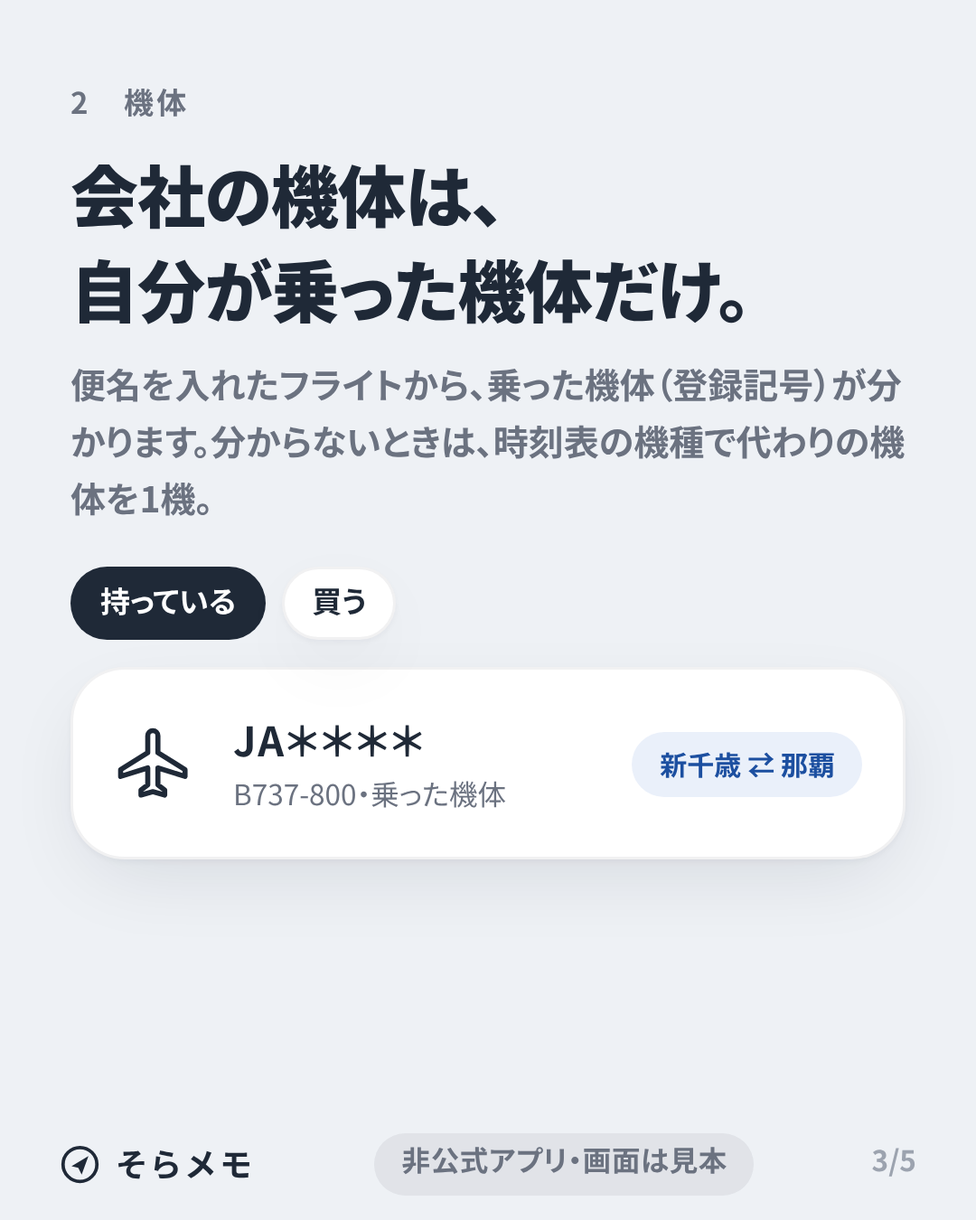
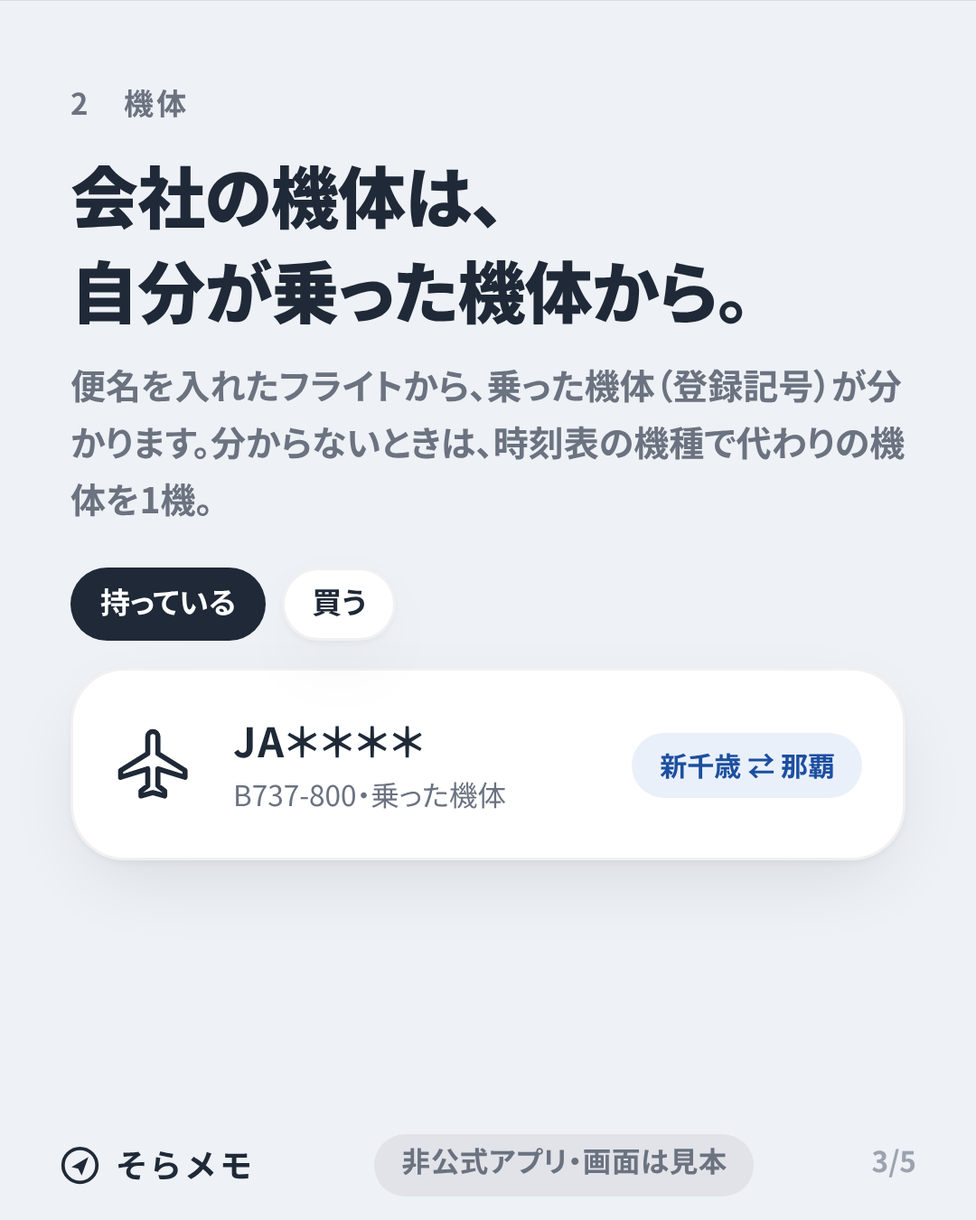
広告：投稿の予定を金・土・日に組み直し、リールの台本（週1本）と本番の撮り方の手順を追加。投稿3の機体の書き方を直す
Claude-Session: https://claude.ai/code/session_01WGRBVHnS9XWc4Qb8Sh2dBL

diff --git a/docs/marketing/images/post3-airline.html b/docs/marketing/images/post3-airline.html
@@ -97,7 +97,7 @@ body{background:#D9DEE6;font-family:var(--gothic);color:var(--ink);-webkit-text-
 <section class="s" id="e3">
   <div class="pad">
     <p class="eyebrow">2　機体</p>
-    <h2 class="ttl">会社の機体は、<br>自分が乗った機体だけ。<small>便名を入れたフライトから、乗った機体（登録記号）が分かります。分からないときは、時刻表の機種で代わりの機体を1機。</small></h2>
+    <h2 class="ttl">会社の機体は、<br>自分が乗った機体から。<small>便名を入れたフライトから、乗った機体（登録記号）が分かります。分からないときは、時刻表の機種で代わりの機体を1機。</small></h2>
     <div class="pillrow" style="margin-top:14px"><span class="pill on">持っている</span><span class="pill">買う</span></div>
     <div class="card" style="margin-top:10px;padding:14px 16px;display:flex;align-items:center;gap:14px">
       <svg viewBox="0 0 24 24" style="width:30px;height:30px;flex:none" aria-hidden="true"><path d="M21 15.5v-2l-8-5V3.5a1.5 1.5 0 0 0-3 0V8.5l-8 5v2l8-2.5V18l-2 1.5V21l3.5-1 3.5 1v-1.5L13 18v-5z" fill="none" stroke="var(--ink-strong)" stroke-width="1.5" stroke-linejoin="round"/></svg>

diff --git a/docs/marketing/plan-4weeks.md b/docs/marketing/plan-4weeks.md
@@ -1,66 +1,70 @@
-# 4週分の投稿予定（2026年11月9日〜12月6日）
+# 4週分の投稿予定（金・土・日に組み直し　2026年11月13日〜12月6日）
 
-- 週3回（フィード2回＋ストーリーズ1回）。リールは月2本までなので、11月と12月に1本ずつ、その週のフィード1回をリールにする
-- 時間は目安。平日は夜（20〜21時）、土日祝は朝（10時）。空港や旅の話は、移動の前後に見られやすいと考えた。2週たったら、インサイトの「フォロワーがアクティブな時間」を見て合わせ直す
-- どの投稿も「非公式アプリ」と入れる（[rules.md](rules.md)）。画像の画面は今のアプリを再現した見本
+11/12 の本人の答えで組み直した版。前の版（平日の夜にも出す形）は git の履歴に残っている。
 
-## 1週目　11月9日（月）〜15日（日）　知ってもらう
+- 出すのは基本 **金・土・日**（11/12 本人）。1週に **フィード（またはリール）2・ストーリーズ1** を基本にして、**リールを週1本** 入れる（リールの上限はなし。11/12 本人「ジャンジャン出そう」）
+- 時間の目安：金は夜 20:00、土は朝 10:00、日は朝 10:00（リール）と夜 21:00（ストーリーズ）。2週たったら、インサイトの「フォロワーがアクティブな時間」を見て合わせ直す
+- どの投稿も「非公式アプリ」と入れる（[rules.md](rules.md)）
+- 画像は本番（soramemo.jp）の画面で撮る（11/12 本人）。撮り方は [shoot-guide.md](shoot-guide.md)。撮り直しが間に合わない投稿は、今の画像（main をデモで動かして撮った本物の画面）で出してよいかを本人が決める
+- リールの台本と撮り方は [reels.md](reels.md)
+- posts-*.md に書いてある日付は前の予定のもの。**日付はこの表が正**
 
-| 日 | 時間 | 種類 | 中身 | ねらい |
+11/10（火）の投稿1と 11/12（木）の投稿2（質問スタンプ）は前の予定どおり出した前提。投稿2がまだなら、11/13（金）21:00 に出して、修行のカルーセルを 11/15（日）10:00 にずらす。
+
+## 1週目　11月13日（金）〜15日（日）　修行の人に届ける
+
+| 日 | 時間 | 種類 | 中身 | 文面 |
 |---|---|---|---|---|
-| 11/10（火） | 20:00 | フィード（カルーセル5枚） | **投稿1**：そらメモの紹介。空港でチェックイン → 印 → 図鑑・フライトの地図 | 何のアプリかを1回で分かってもらう。保存とプロフィールへのアクセス |
-| 11/12（木） | 21:00 | ストーリーズ | **投稿2**：「最初に印を押したい空港は？」質問スタンプ＋リンクのスタンプ | 答えてもらって関わりを作る。リンクを押してもらう |
-| 11/14（土） | 10:00 | フィード（カルーセル5枚） | **投稿3**：エアライン経営。乗った区間だけが路線、乗った機体だけが会社の機体、実際の便数・欠航で収益が上下 | ほかの旅アプリにない遊び方を見せる。シェアと保存 |
+| 11/13（金） | 20:00 | フィード（カルーセル6枚） | **修行のカルーセル**：年末まで、あと何回か | [posts-shugyo.md](posts-shugyo.md) 投稿A |
+| 11/14（土） | 10:00 | フィード（カルーセル5枚） | **投稿3**：エアライン経営（11/5 本人「そのまま出す」） | [posts-first3.md](posts-first3.md) |
+| 11/15（日） | 10:00 | リール（20秒） | **リールA 修行の道のり**（撮れたら。撮れなければ 11/20 の金に回し、チェックインのリールを 11/27 へ） | [reels.md](reels.md) |
+| 11/15（日） | 21:00 | ストーリーズ | **修行のアンケート**「今年の修行、あと何回？」＋リンク | [posts-shugyo.md](posts-shugyo.md) 投稿B |
 
-文面と画像：[posts-first3.md](posts-first3.md)
+- 修行は年末に向けて「あと何回」を気にする時期なので、いちばん早い金曜に出す
+- リンクのスタンプは 11/15 のストーリーズだけ。リールとは11時間あく
 
-## 2週目　11月16日（月）〜22日（日）　使っている様子を見せる
+## 2週目　11月20日（金）〜22日（日）　使っている様子を見せる
 
-| 日 | 時間 | 種類 | 中身 | ねらい |
+| 日 | 時間 | 種類 | 中身 | 文面 |
 |---|---|---|---|---|
-| 11/17（火） | 20:00 | **リール①**（15〜20秒） | 本人の端末の画面収録：空港の円に入る → チェックインを引いて切る → 印が出る → 図鑑のマスが埋まる | 動きで「押す気持ちよさ」を伝える。リーチを広げる |
-| 11/19（木） | 21:00 | ストーリーズ | 先週の質問スタンプの答えから「多かった空港」を紹介（名前は出さない）＋リンクのスタンプ | 答えた人に返す。迷っている人の背中を押す |
-| 11/21（土） | 10:00 | フィード（カルーセル4〜5枚） | フライトの残し方：出発と到着で押す／乗った便を記録する（航空会社と便名）／搭乗券を読み取る／画像で共有 | 旅の前に保存してもらう |
+| 11/20（金） | 20:00 | リール（15〜20秒） | **リールB チェックイン**：半券を切る → 印 → 図鑑のマス | [reels.md](reels.md)（文面は [posts-week2.md](posts-week2.md) 投稿4） |
+| 11/21（土） | 10:00 | フィード（カルーセル5枚） | **投稿6** フライトの残し方 | [posts-week2.md](posts-week2.md) |
+| 11/22（日） | 21:00 | ストーリーズ | **投稿5** 11/12 の答えから多かった空港3つ＋リンク | [posts-week2.md](posts-week2.md) |
 
-- リールは本人の端末で画面を収録する。地図・印・図鑑だけを映し、外の景色を入れるときはロゴや人の顔が映らないようにする
-- 文面・台本・画像：[posts-week2.md](posts-week2.md)（投稿4＝リール①、投稿5＝11/19 のストーリーズ、投稿6＝11/21 のフライト）
+## 3週目　11月27日（金）〜29日（日）　経営と図鑑
 
-## 3週目　11月23日（月・祝）〜29日（日）　集める楽しさ
-
-| 日 | 時間 | 種類 | 中身 | ねらい |
+| 日 | 時間 | 種類 | 中身 | 文面 |
 |---|---|---|---|---|
-| 11/23（月・祝） | 10:00 | フィード（カルーセル4〜5枚） | 図鑑：地方ごとのマス（北海道12・九州19・沖縄10 など）、離島の空港は金色の印、同じ空港に通うと印が昇格する | 「全部埋めたい」と思ってもらう。保存 |
-| 11/25（水） | 21:00 | ストーリーズ | 下の「分かれ道」を見て決める | 登録の不安をなくす |
-| 11/28（土） | 10:00 | フィード（1〜3枚） | 本人の1か月の記録：アプリの「画像で共有」で作った画像をそのまま使う | 本当に使っている記録で信頼してもらう |
+| 11/27（金） | 20:00 | リール（20〜25秒） | **リールC エアライン経営**：路線 → 機体 → 収益を受け取る | [reels.md](reels.md) |
+| 11/28（土） | 10:00 | フィード（カルーセル5枚） | **図鑑**：右端のツメ（9地方）・地方の扉・16／86 の数・「飛行場・滑空場・ヘリポートの図鑑」の入口 | これから書く（本番の画面で撮る） |
+| 11/29（日） | 21:00 | ストーリーズ | **登録の分かれ道**（下） | これから書く |
 
-**11/25 の分かれ道**
-- 新規登録の画面が本番に入っていたら：登録の流れ（メール → コード → 表示名 → 同意 → 位置情報）を1枚ずつ見せるストーリーズ。画像は本番の画面で作り直す
-- まだ入っていなければ：「アーリーアクセスで直したこと」を短く（実際に本番に入った直しだけ）。登録の流れには触れない
+**11/29 の分かれ道**
+- 新規登録の新しい画面が本番に入っていたら：登録の流れを1枚ずつ見せる。画像は本番の画面で
+- まだなら：「アーリーアクセスで直したこと」を短く（本番に入った直しだけ。近くの空港に飛行場・滑空場・ヘリポートも並ぶようになった、など）
 
-## 4週目　11月30日（月）〜12月6日（日）　経営で深く遊ぶ人へ
+## 4週目　12月4日（金）〜6日（日）　年末年始の移動の前に
 
-| 日 | 時間 | 種類 | 中身 | ねらい |
+| 日 | 時間 | 種類 | 中身 | 文面 |
 |---|---|---|---|---|
-| 12/1（火） | 20:00 | **リール②**（20〜30秒） | エアライン経営の画面収録：自社路線の一覧 → 機体を買う（乗った機体の中から） → 路線に入れる → 収益を受け取る | 経営を知らない人に届ける。シェア |
-| 12/3（木） | 21:00 | ストーリーズ | 質問スタンプ「そらメモで次に行きたい空港は？」＋リンクのスタンプ | 登録した人に、次の旅で使ってもらう |
-| 12/5（土） | 10:00 | フィード（カルーセル3〜4枚） | 年末年始の帰省・旅行の前に：出発と到着で押すだけ、乗り継ぎは24時間以内、オフラインでも後から送れる | 冬の移動の前に登録してもらう |
+| 12/4（金） | 20:00 | リール（15〜20秒） | **リールD 図鑑のマスが埋まる**（地方の扉 → 飛行場・滑空場・ヘリポートの図鑑） | [reels.md](reels.md) |
+| 12/5（土） | 10:00 | フィード（カルーセル3〜4枚） | 年末年始の帰省・旅行の前に：出発と到着で押すだけ、乗り継ぎは24時間以内、電波がなくても後から送れる | これから書く |
+| 12/6（日） | 21:00 | ストーリーズ | 質問スタンプ「そらメモで次に行きたい空港は？」＋リンク | これから書く |
 
-- 12/5 の「オフライン」は、今のアプリの仕組み（電波がないときは端末に保留し、つながったら送る。24時間以内のもの）どおりに書く
-- 「予想」「推定」の機能（到着予想・撮る人の「見えるか」など）を出すときは、「目安で、当たることを保証しません」と画像と本文の両方に入れる。この4週では主役にしない
+- 12/5 の「電波がないとき」は、今のアプリの仕組み（端末に保留して、つながったら送る。24時間以内のもの）どおりに書く
 
-## 決まったこと（11/5 本人）
-- リール①②に本人の端末の画面収録を使ってよい。収録は旅先の空港で、自宅に近い空港が映らないようにする
+## 5週目より後（12/11〜）に回したもの
+- 本人の1か月の記録（出すかは本人の判断待ち）
+- 修行の「12月31日まで あと3週」のストーリーズ（修行のアンケートの答えを見て）
+- 予備のリール：[reels.md](reels.md) のリールE（近くの空港）
 
-## 決めていないこと（本人に）
-- 11/28 の「自分の記録」を出してよいか
+## 1週の数
+| 週 | フィード | リール | ストーリーズ | リンクのスタンプ |
+|---|---|---|---|---|
+| 1 | 2 | 1（撮れたら） | 1 | 日曜のストーリーズだけ |
+| 2 | 1 | 1 | 1 | 日曜のストーリーズだけ |
+| 3 | 1 | 1 | 1 | 日曜のストーリーズだけ |
+| 4 | 1 | 1 | 1 | 日曜のストーリーズだけ |
 
-## 修行の広報を入れる案（11/12 追加・本人の判断待ち）
-
-文面と画像：[posts-shugyo.md](posts-shugyo.md)。年末に向けて「あと何回」を気にする時期なので、11月のうちに出したい。
-
-**案1（おすすめ）**
-- 11/28（土）10:00 のフィードを **修行のカルーセル6枚** にする。「本人の1か月の記録」（判断待ち）は5週目（12/7〜）以降へ
-- 12/3（木）21:00 のストーリーズを **修行のアンケート＋リンク** にする。「次に行きたい空港は？」は5週目へ
-- 週3回（フィード2・ストーリーズ1）とリール月2本はそのまま
-
-**案2**：予定は変えず、5週目（12/7〜13）に修行のカルーセルとストーリーズを出す（年末の追い込みには少し遅い）
+- リールは「フィードにも表示」をオンにするので、2〜4週目もフィードに並ぶのは週2本
+- リンクのスタンプは1日1回、フィードとは2時間以上あける（[rules.md](rules.md)）。どの週も日曜の夜だけ

diff --git a/docs/marketing/reels.md b/docs/marketing/reels.md
@@ -1,0 +1,135 @@
+# リールの台本（週1本）
+
+11/12 本人「リールもジャンジャン出そう」で、リールの上限はなくなった。まずは週1本（金曜 20:00 が基本）。日付は [plan-4weeks.md](plan-4weeks.md) が正。
+
+## どのリールにも共通の撮り方
+
+- **本番（soramemo.jp）を「デモで試す」で開いて画面収録する**（入り方は [shoot-guide.md](shoot-guide.md)）。デモは「いる空港（デモ）」を選べるので、家にいても旅先の空港として撮れて、自宅の近くの空港が映らない。本人の記録も映らない
+  - 前の決まり（11/5）は「本人の画面収録は旅先の空港で」。デモで撮るのはその代わりの案なので、本人に決めてもらう（報告の「決めてほしいこと」）。旅先で撮れたときは本物の記録で撮ってもよい
+- 上の「デモモード中」の帯は、Instagram の編集で上を少し切るか、帯の上に文字を置いて隠す。キャプションには「画面はデモ」と書く
+- 収録の前に：おやすみモード／通知を切る／画面の明るさを最大／縦向き固定
+- 指はゆっくり。1つの画面で2〜3秒止める（字を読む間）
+- 文字は Instagram の編集で足す。音は Instagram の中の音源から選ぶ（外の音源は使わない）
+- 画面の文字の最後に、どのリールも「非公式アプリ」を2秒以上
+- 「フィードにも表示」をオン。位置情報のタグは付けない
+- ロゴ・制服・他人の写真は映さない。外の景色を足すなら、ロゴ・人の顔が映らないところだけ（足さなくてよい）
+
+---
+
+## リールA　修行の道のり（20秒）　11/15（日）10:00
+
+ねらい：修行のカルーセル（11/13）を見なかった人にも、動きで「今年の道のりが一目で分かる」を届ける。
+
+**撮り方**：デモで修行タブを開く。デモには見本の便が入っているので、道のりの数字が出る（11/12 に main で見た値：クリスタルまで 14,116 FOP・あと 15,884 FOP／あと16回）
+
+| 秒 | 映すもの | 画面に足す文字 |
+|---|---|---|
+| 0〜3 | 下のタブ帯の「修行」を押す → 道のりの1枚。大きな数字 | 今年の修行、どこまで来た？ |
+| 3〜7 | 「あと ○」の2つの箱にゆっくり寄る（指で少し下へ） | あと何ポイント／あと何回 |
+| 7〜12 | 見方の帯で「1便ごと」→ 1便を押して内訳 | 1便ずつ、数え方まで |
+| 12〜16 | 見方の帯で「月ごと」→ 12月31日の残り（推定） | 年末までの残り（推定） |
+| 16〜20 | 「入れたら届くか」で予定の便を入れる → 届くかの一文 | 予定を入れて、届くかを推定／非公式アプリ・プロフィールのリンクから |
+
+**本文**
+
+```
+今年の修行、どこまで来た？
+
+そらメモの「修行」タブは、記録した便から今年の道のりを数えます。
+・今のポイントと「あと何ポイント／あと何回」
+・1便ずつの数え方（区間マイル × 積算率 × 2 ＋ 搭乗ボーナス）
+・12月31日までの残り（推定）
+・予定の便を入れると、届くかを推定
+
+ポイントは各社の公開情報（2026年10月に確認）からの目安で、キャンペーンのボーナスは含みません。届くことを保証するものではありません。
+
+登録はプロフィールのリンク（soramemo.jp）から。
+
+※そらメモは個人で作っている非公式アプリです。航空会社の公式アプリではありません。
+※画面はデモで、数字は見本です。
+
+#そらメモ #修行 #ステイタス修行 #マイル修行 #飛行機好き #飛行機旅 #搭乗記録 #フライトログ
+```
+
+- 届くかの字は必ず「推定」が映るように。「届く」と言い切る文字を足さない
+- 制度の名前（JGC・Life Status など）は、アプリの画面に出ている名前どおり。制度の解説はしない
+- 表紙：道のりの1枚の大きな数字のところ（Instagram で動画の中から選ぶ）。または `images/png/shugyo-1.png`
+
+---
+
+## リールB　チェックイン（15〜20秒）　11/20（金）20:00
+
+台本と本文は [posts-week2.md](posts-week2.md) の投稿4（リール①）のまま。撮り方だけ足す。
+
+- デモで「いる空港（デモ）」を、自宅から遠い空港にする（例：新千歳・那覇。羽田のままでもよい）
+- ホームの地図で円の中に点がある状態 → シートの搭乗券の半券を右へ引いて切る → 印 → 図鑑のタブで地方のマス
+- 表紙は `images/png/post4-reel1-cover.png`
+
+---
+
+## リールC　エアライン経営（20〜25秒）　11/27（金）20:00
+
+ねらい：経営を知らない人に「乗った区間が路線になる」を動きで見せる。11/14 の投稿3の続き。
+
+**撮り方**：デモでホームの上の切り替えを「エアライン経営」にする。下のタブ帯が 会社・路線・機体・守り神 に変わる
+
+| 秒 | 映すもの | 画面に足す文字 |
+|---|---|---|
+| 0〜3 | 上の切り替え「スタンプラリー」→「エアライン経営」 | 乗った区間で、会社を作る |
+| 3〜8 | 「路線」タブ：自社路線の一覧 | 実際に飛んだ区間だけが路線に |
+| 8〜13 | 「機体」タブ：持っている／買う | 機体は、自分が乗った機体から |
+| 13〜18 | 「会社」タブ：「収益を受け取る」を押す | 本物の空の1日で、収益が上下 |
+| 18〜22 | 会社のカードで止める | 旅に出るほど、路線が増える／非公式アプリ |
+
+**本文**
+
+```
+乗った区間で、会社を作る。
+
+そらメモの「エアライン経営」は、自分が実際に飛んだ区間だけが会社の路線になるゲームです。
+・機体は、自分が乗った機体から
+・前の日の実際の便の数と欠航で、収益が上下します
+
+登録はプロフィールのリンク（soramemo.jp）から。
+
+※そらメモは個人で作っている非公式アプリです。航空会社の公式アプリではありません。
+※画面はデモで、数字は見本です。
+
+#そらメモ #エアライン経営 #経営ゲーム #飛行機好き #飛行機旅 #空港 #旅の記録
+```
+
+- 撮る前に本番で、機体の画面に「見た機体」「小型機」があるか見る。あれば「乗った機体と、見た機体から」と文字を直してよい（経営の新しい形はスイッチで出し分けているので、本番で出ているものだけを書く）
+- 会社名・数字はデモの見本。実在の航空会社の名前を会社名にしない
+
+---
+
+## リールD　図鑑のマスが埋まる（15〜20秒）　12/4（金）20:00
+
+ねらい：「全部埋めたい」。11/28 の図鑑のカルーセルの続き。
+
+**撮り方**：デモでいくつかの空港でチェックインしてから（いる空港を変えて押す）図鑑を開く
+
+| 秒 | 映すもの | 画面に足す文字 |
+|---|---|---|
+| 0〜3 | 図鑑の最初の画面。上のカードの ○／86 と9地方の数 | 国内の空港、いくつ行った？ |
+| 3〜8 | 右端のツメで地方を飛ぶ → 地方の扉 → そろった枠 | 地方ごとに、マスを埋める |
+| 8〜13 | 1つの空港を押す → 空港のページ（供用開始・滑走路） | 1つずつ、空港のデータつき |
+| 13〜18 | 「飛行場・滑空場・ヘリポートの図鑑」の入口を押す | 飛行場・滑空場・ヘリポートの図鑑も |
+| 18〜20 | 図鑑の最初の画面に戻る | 次の空港で、マスを1つ／非公式アプリ |
+
+- 空港のページの供用開始・滑走路を映すときは、画面にある出典（国土交通省「空港一覧」を加工して作成）が切れないように。本文にも同じ出典を書く
+- 「86」は民間空港の数。飛行場・滑空場・ヘリポートは 86 に入らない（決まり）ので、「全部で○」と足し算した数を書かない
+
+---
+
+## リールE（予備）近くの空港（15秒）
+
+日に余りが出たとき・撮り直しが間に合わないとき用。11/12 に本番に入った「近くの空港」（飛行場・滑空場・ヘリポートも近い順、札で見分ける）。
+
+| 秒 | 映すもの | 画面に足す文字 |
+|---|---|---|
+| 0〜4 | ホームの「近くの空港」の並び（札が見える所） | いちばん近いのは、空港とは限らない |
+| 4〜9 | いる空港（デモ）を変える → 並びとパタパタが変わる | 飛行場・滑空場・ヘリポートも、近い順に |
+| 9〜15 | 1つを押して空港のページ | 次の旅の寄り道に／非公式アプリ |
+
+- 基地は出ない（決まり）。「すべての飛行場」とは書かない

diff --git a/docs/marketing/shoot-guide.md b/docs/marketing/shoot-guide.md
@@ -1,0 +1,41 @@
+# 本番の画面の撮り方（本人用の1枚）
+
+11/12 本人「投稿の画像は本番（soramemo.jp）の画面で撮る」。担当の環境からは本番が確認の画面で止まって開けないので、本人が撮る手順をまとめた。PM が本番を開けたら PM が撮ってもよい。
+
+## 準備（1回だけ）
+1. スマホの **おやすみモード** をオン（通知が映らない）。画面の明るさを最大、縦向き固定
+2. ブラウザで **https://soramemo.jp/** を開く
+3. ログインしているときは、マイページの設定の「デモモード」の **開始**。ログインしていないときは、最初の画面の **「デモで試す」**（ログインの画面なら下の「登録しないでデモで試す」）
+4. 上に「デモモード中」の帯が出ればよい。記録は本番と別で、終えると消える
+5. 「いる空港（デモ）」は羽田（第1ターミナル）のまま。リールで別の空港にしたいときだけ変える
+
+自分の記録・自宅の近くの空港は、デモなら映らない。ログインしたままの画面（本人の記録）では撮らない。
+
+## 撮る順番（修行のカルーセル6枚＋ストーリーズ）
+
+下のタブ帯の **「修行」** を押してから、上から順にスクリーンショット。撮ったら名前を付けて送る（担当が `docs/marketing/images/shugyo/` の同じ名前に置き換えて、画像を書き出し直す）。
+
+| 順 | 名前 | 画面 | 切り抜く所 |
+|---|---|---|---|
+| 1 | `hero` | 修行タブを開いたところ。大きな数字・1年の%・届くか（推定）の一文 | 上の「デモモード中」の帯と時計の列を外す。大きな数字から一文の下まで |
+| 2 | `two` | 少し下へ。「あと ○」の2つの箱 | 2つの箱だけ（横いっぱい） |
+| 3 | `calc` | 見方の帯で「1便ごと」→ いちばん上の便を押して内訳 | 内訳の明細（区間マイル・積算率・搭乗ボーナス・合計）が全部入る所 |
+| 4 | `mgrid-top` | 見方の帯で「月ごと」。12月31日の残り（推定）と月末の残り | 見出しから11月・12月の行まで |
+| 5 | `reach` | 「入れたら届くか」。予定の便を1つ入れたところ | 入れた便と届くかの一文 |
+| 6 | `end` | 「計画を作る」の入口 | 入口のカードだけ |
+
+- 字が小さくならないように、ブラウザの拡大は100%のまま。横幅いっぱいで撮る（担当の側で1050px の幅にそろえる）
+- 数字はデモの見本のままでよい（画像の下に「デモの画面」と入る）。前に撮った見本は「クリスタルまで 14,116 FOP・あと 15,884 FOP／あと16回」。違う数字になっていたら、そのまま送ってくれれば本文の数字を合わせて検算し直す
+- 夜の画面（1月の公開に入れる予定）が本番に入ったあとは、昼の画面にそろえて撮る（11/12 の本番にはまだない）
+
+## 撮る順番（ほかの投稿）
+
+| 投稿 | 撮る画面 | 名前 |
+|---|---|---|
+| 11/28 図鑑のカルーセル | 図鑑の最初の画面（上のカードの ○／86 と9地方）・右端のツメで飛んだ地方の扉・1空港のページ（供用開始・滑走路と出典が入るように）・「飛行場・滑空場・ヘリポートの図鑑」の入口 | `zk-top`・`zk-region`・`zk-airport`・`zk-airfield` |
+| 11/29 登録のストーリーズ | 新規登録の新しい画面が本番に入っていたら、登録の流れを1画面ずつ（メールのアドレス・コードは映さない） | `signup-1`〜 |
+| 12/5 年末年始 | ホームの地図とシート・フライトの画面（デモの見本の便） | `home`・`flight` |
+
+## 送り方
+- 撮った画像をまとめて PM（または担当の会話）に渡す。担当が切り抜いて、文字を載せた投稿の画像に書き出す
+- 時間がないときは、今の画像（main をデモで動かして撮った本物の画面。同じ版）のまま出してよいかを決めてもらう

diff --git a/docs/pm/report-ads-shugyo.md b/docs/pm/report-ads-shugyo.md
@@ -16,3 +16,27 @@
 
 ## アプリ側に頼みたいこと
 - なし（今ある機能だけで書いた）。前からの依頼（`?from=ig` で来た人を数える・共有画像に「非公式アプリ」）はそのまま
+
+---
+
+## 追加（11/12 夜、PM の次の仕事：金・土・日への組み直し・撮り方・リール）
+
+ブランチ ads/weekend-plan（ads/shugyo の上に積んだ下書き PR）
+
+### 作ったもの
+- `docs/marketing/plan-4weeks.md` を金・土・日に組み直した（11/13〜12/6）。毎週 金20時＝リール（1週目だけフィード）、土10時＝フィード、日21時＝ストーリーズ（リンクは日曜の夜だけ）
+  - 修行はいちばん早い週に：11/13（金）カルーセル、11/15（日）10時 リールA、21時 アンケートのストーリーズ
+  - 11/14（土）投稿3 経営、11/20 リールB チェックイン・11/21 フライト・11/22 多かった空港、11/27 リールC 経営・11/28 図鑑・11/29 登録の分かれ道、12/4 リールD 図鑑・12/5 年末年始・12/6 次に行きたい空港。本人の1か月の記録は12/11 の週より後へ
+- `docs/marketing/reels.md`：リール週1本の台本と撮り方（A 修行・B チェックイン・C 経営・D 図鑑・E 予備の近くの空港）。修行のリールは1月を待たずに 11/15
+- `docs/marketing/shoot-guide.md`：本番のデモで撮る手順の1枚（デモの入り方・修行の6画面の順と名前と切り抜く所・ほかの投稿で撮る画面）
+- 投稿3（11/14）の「会社の機体は、自分が乗った機体だけ」を「乗った機体から」に直した（本文と3枚目の画像）。main では見た機体・小型機も買える形がスイッチ（co_v3）付きで入っていて、本番で出ているか分からないため、どちらでも正しい書き方にした
+
+### 本人に決めてほしいこと
+1. リールを本番の「デモで試す」で撮ってよいか（デモは「いる空港」を選べるので家でも撮れ、自宅の近くの空港も本人の記録も映らない）。前の決まり（11/5）は「旅先の空港で収録」
+2. 11/13（金）の修行カルーセルに撮り直しが間に合わないとき、今の画像（main のデモで撮った本物の画面）で出してよいか
+3. 11/15（日）のリールA（修行）を撮れるか。撮れなければ 11/20 に回し、チェックインのリールを 11/27 へ
+4. 本人の1か月の記録を出すか（12/11 の週より後に回した）
+
+### アプリ側に頼みたいこと
+- 前からの依頼のまま（`?from=ig` で来た人を数える・共有画像に「非公式アプリ」）
+- 経営担当へ：本番で co_v3（見た機体・小型機）が ON かを教えてほしい（リールCと投稿3の書き方を合わせるため）

diff --git a/docs/marketing/posts-first3.md b/docs/marketing/posts-first3.md
@@ -73,7 +73,7 @@
 |---|---|---|
 | 1 | 乗った区間だけが、あなたの会社の路線になる。 | 紺の地に、空港を結ぶ点線（路線の絵） |
 | 2 | 実際に飛んだ区間が、自社路線に。 | 自社路線の一覧の再現（新千歳⇄那覇 など、1日の収益）。乗っていない区間は路線にできない |
-| 3 | 会社の機体は、自分が乗った機体だけ。 | 機体の画面の再現（持っている／買う、登録記号は `JA＊＊＊＊` と伏せる） |
+| 3 | 会社の機体は、自分が乗った機体から。 | 機体の画面の再現（持っている／買う、登録記号は `JA＊＊＊＊` と伏せる） |
 | 4 | 本物の空の1日で、収益が上下する。 | 会社のカードの再現（資金・1日の収益・維持費・実際の空 −8%） |
 | 5 | 印を集めた旅が、そのまま会社の歴史になる。 | まとめ。ホームの上の「エアライン経営」から始める／非公式アプリであること |
 
@@ -85,7 +85,7 @@
 そらメモには、空港の印集めとは別に「エアライン経営」があります。
 
 ・路線になるのは、自分が実際に飛んだ区間だけ
-・会社の機体は、自分が乗った機体だけ（便名を入れたフライトから登録記号が分かります。分からないときは、時刻表の機種で代わりの機体を1機）
+・会社の機体は、自分が乗った機体から（便名を入れたフライトから登録記号が分かります。分からないときは、時刻表の機種で代わりの機体を1機）
 ・前の日の実際の便の数と欠航で、国内線の収益が最大±20%上下します
 
 旅に出るほど、路線と機体が増えていきます。

diff --git a/docs/marketing/posts-shugyo.md b/docs/marketing/posts-shugyo.md
@@ -67,17 +67,8 @@
 
 ---
 
-## （案）リール：1月に出すなら
+## リール
 
-11月（11/17）と12月（12/1）のリールの枠はもう使っているので、出すなら1月。本人が決める。
+11/12 本人「リールは上限なし」で、1月まで待たずに出す。台本は [reels.md](reels.md) のリールA（11/15（日）10:00）。
 
-| 秒 | 映すもの（デモの画面収録） | 画面に足す文字 |
-|---|---|---|
-| 0〜3 | 修行タブの道のり。大きな数字 | 今年の道のり、何%？ |
-| 3〜7 | 2つの箱 | あと何回／あと何ポイント |
-| 7〜12 | 1便ごと → 1便を押して内訳 | 1便の数え方まで |
-| 12〜16 | 月ごと：12月31日の残り | 年末の残り（推定） |
-| 16〜20 | 入れたら届くか → 計画を作る | 予定を入れて、届くかを推定／非公式アプリ |
-
-- デモで撮る（本人の記録は映さない）。届くかの字は必ず「推定」を残す
-- 2027年1月からの制度の名前の変化（JGCプレミア → JMBプレミア）に触れるなら、アプリの画面に出ている名前どおりに。制度そのものの解説はしない
+出す日（11/12 組み直し）：カルーセル＝11/13（金）20:00、ストーリーズ＝11/15（日）21:00（[plan-4weeks.md](plan-4weeks.md)）。

diff --git a/docs/marketing/rules.md b/docs/marketing/rules.md
@@ -1,5 +1,8 @@
 # 投稿の前に見る決まり
 
+- 出す日は基本 金・土・日（11/12 本人）。リールの数の上限はなし、まずは週1本（11/12 本人）。日付は [plan-4weeks.md](plan-4weeks.md)
+- 投稿の画像は本番（soramemo.jp）の画面で撮る（11/12 本人。撮り方は [shoot-guide.md](shoot-guide.md)）
+
 毎回、投稿する前にこの表を上から確かめる。
 
 ## かならず入れる
